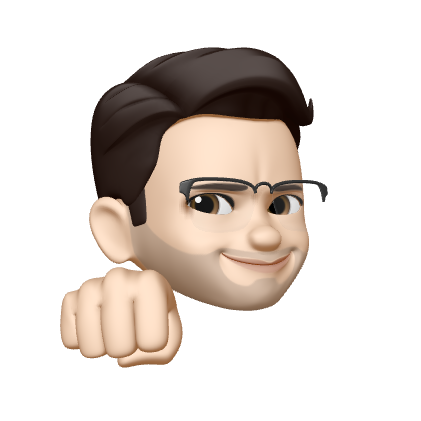
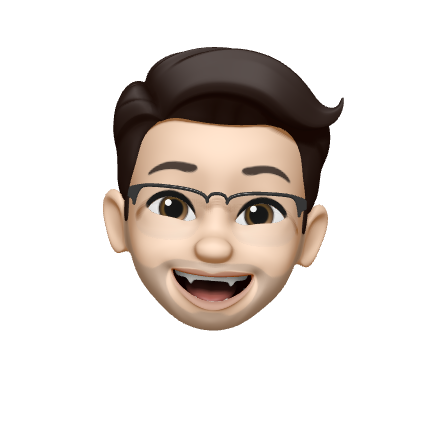
Img Changed

Changed region(s): [[0.1235, 0.0926, 0.8337, 0.8955], [0.6176, 0.1235, 0.6793, 0.1544]]

diff --git a/src/Upper.css b/src/Upper.css
@@ -2,6 +2,18 @@
 @font-face { font-family: 'GmarketSansMedium'; src: url('https://cdn.jsdelivr.net/gh/projectnoonnu/noonfonts_2001@1.1/GmarketSansMedium.woff') format('woff'); font-weight: normal; font-style: normal; }
 @font-face { font-family: 'GmarketSansBold'; src: url('https://cdn.jsdelivr.net/gh/projectnoonnu/noonfonts_2001@1.1/GmarketSansBold.woff') format('woff'); font-weight: normal; font-style: normal; }
 
+.profile_img {
+}
+
+img {
+    display: block;
+    margin-top: 100px;
+    margin-left: auto;
+    margin-right: auto;
+    width: 280px;
+}
+
+
 .upper_container {
     width: 100%;
 }
@@ -10,7 +22,6 @@
     text-align: center;
     font-size: 12pt;
     font-family: GmarketSansLight;
-    margin-top: 20vh;
     line-height: 5vh;
     color: white;
 }

diff --git a/src/Upper.js b/src/Upper.js
@@ -4,7 +4,9 @@ import "./Upper.css";
 function Upper(){
     return <div className="upper_container">
 
-        <img src="" />
+        <div className="profile_img">
+           <img src="https://github.com/neo-seokhee/profie_site/blob/master/src/profile2.png?raw=true" />
+        </div>
 
         <h1 className="upper_title">Hello I'm<br/><span className="title_neo">NEO</span></h1>
         <h3 className="upper_des">안녕하세요! 이석희입니다.<br/>밸런스히어로에서 <span className="highlight">Product Manager</span>로 일하고 있구요.<br/>새로운 것을 배우는 걸 좋아합니다.</h3>
